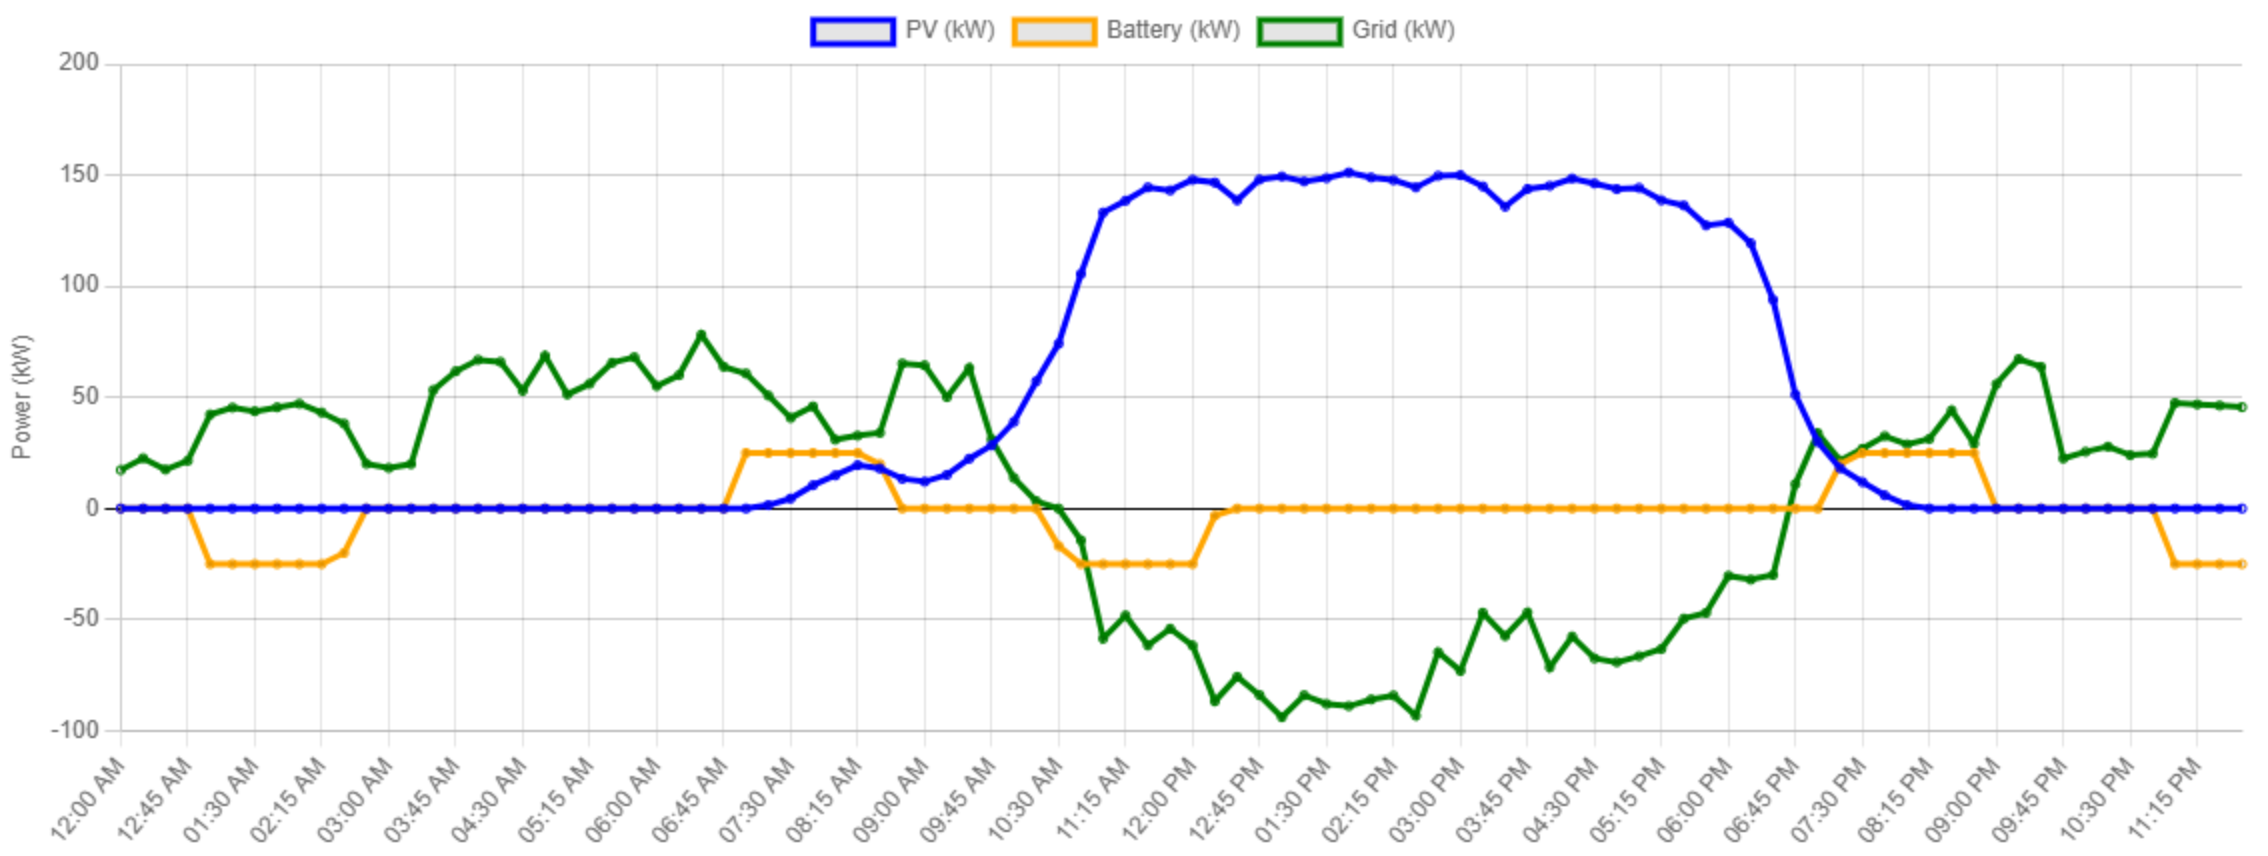
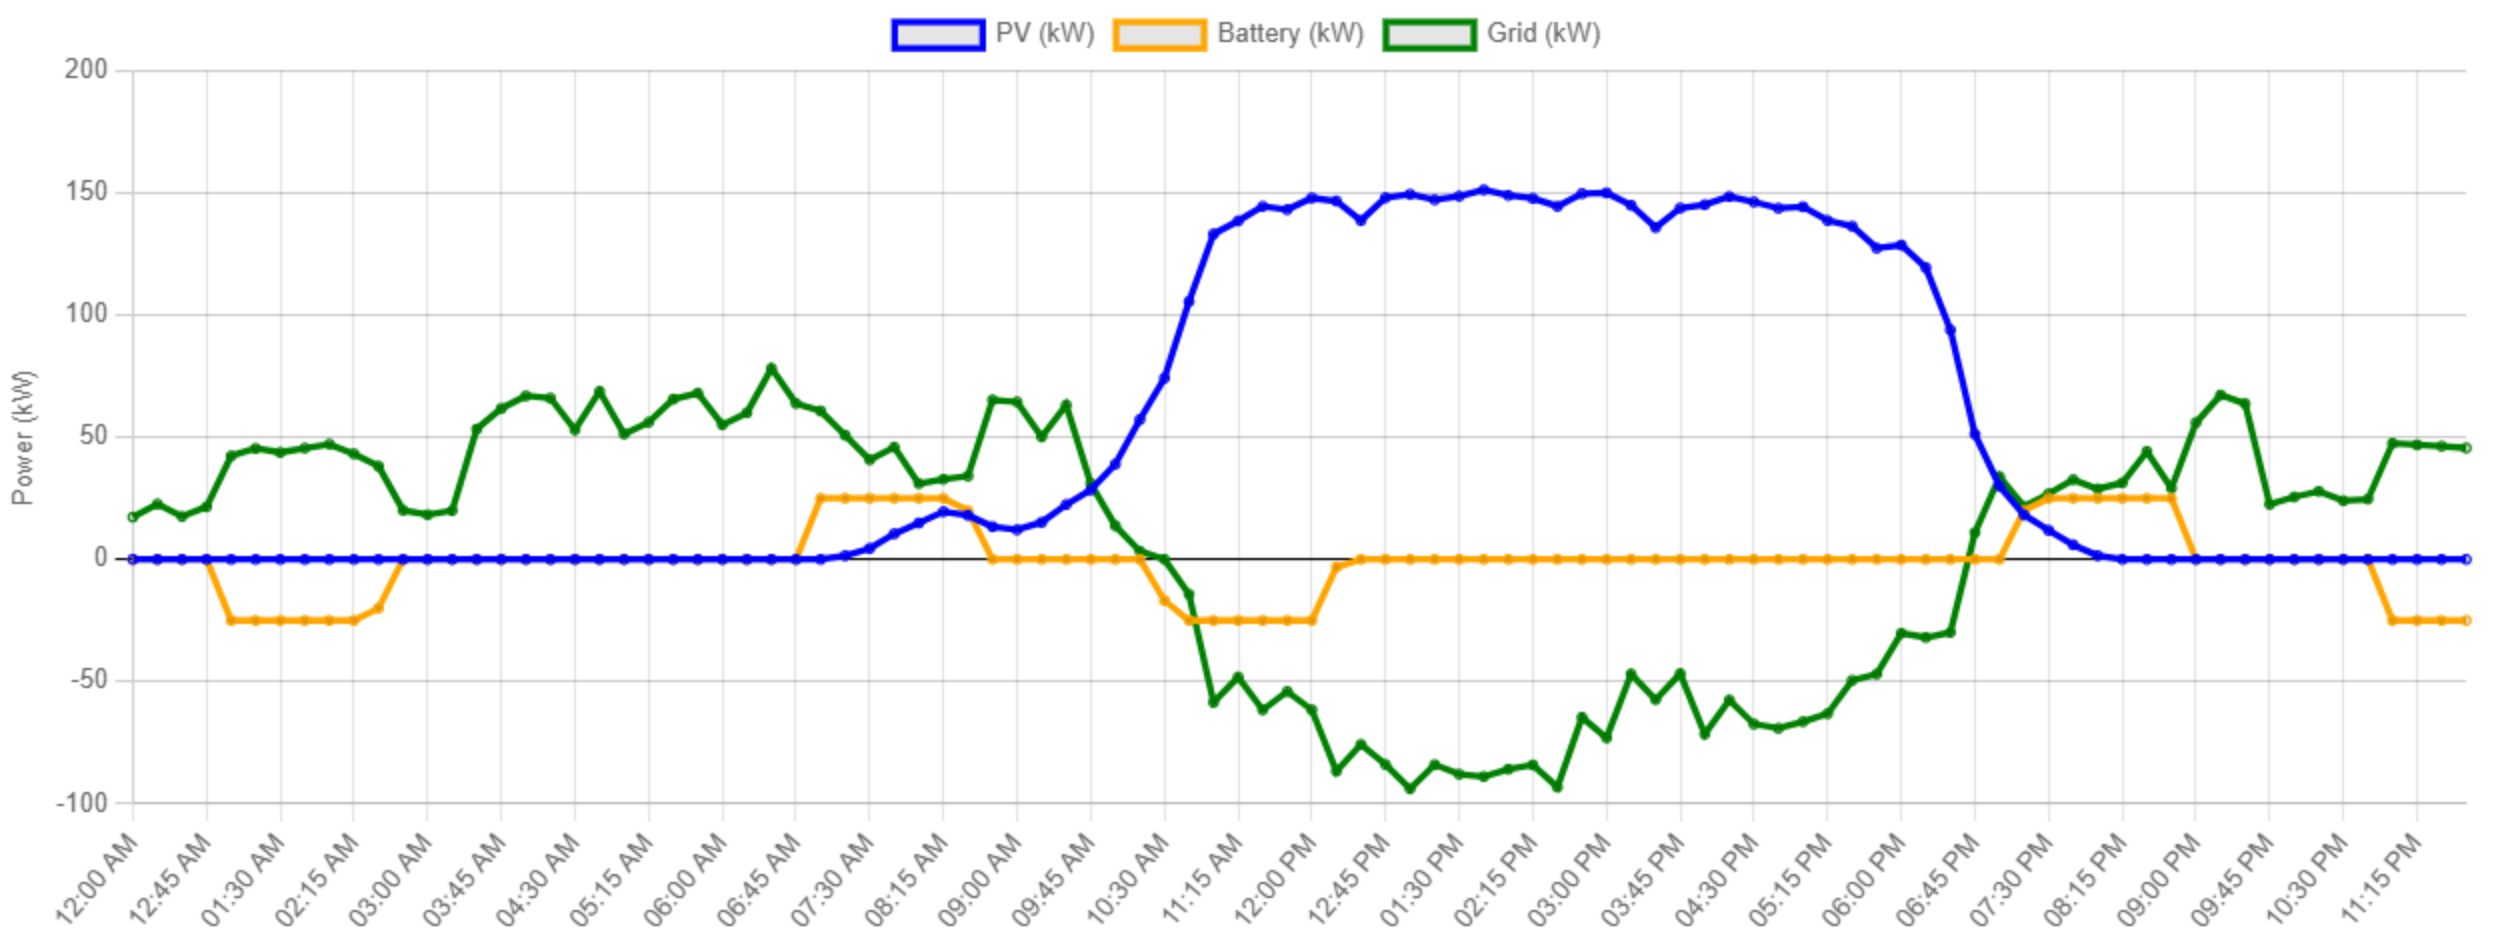
line chart - area colored for first chart

diff --git a/resources/views/plants/partials/plant-chart.blade.php b/resources/views/plants/partials/plant-chart.blade.php
@@ -258,32 +258,35 @@ Chart.register(verticalLinePlugin);
                     {
                         label: 'PV (kW)',
                         data: pvDataKW,
-                        borderColor: 'blue',
-                        fill: false,
-                        pointRadius: 2,        // <-- Make points bigger
-                        pointHoverRadius: 12   // <-- Make points bigger on hover
+                        borderColor: 'rgba(0,123,255,1)',         // blue line
+                        backgroundColor: 'rgba(0,123,255,0.15)',  // light blue fill
+                        fill: true,                               // fill area under line
+                        pointRadius: 2,
+                        pointHoverRadius: 12
                     },
                     {
                         label: 'Battery (kW)',
                         data: batteryDataKW00,
-                        borderColor: 'orange',
-                        fill: false,
+                        borderColor: 'rgba(220,53,69,1)',         // red line
+                        backgroundColor: 'rgba(220,53,69,0.12)',  // light red fill
+                        fill: true,
                         pointRadius: 2,
                         pointHoverRadius: 12
                     },
                     {
                         label: 'Grid (kW)',
                         data: gridDataKW,
-                        borderColor: 'green',
-                        fill: false,
+                        borderColor: 'rgba(40,167,69,1)',         // green line
+                        backgroundColor: 'rgba(40,167,69,0.12)',  // light green fill
+                        fill: true,
                         pointRadius: 2,
                         pointHoverRadius: 12
                     },
                 ]
             },
             options: {
-                responsive: true, // <-- set to true
-                maintainAspectRatio: false, // <-- add this for full height
+                responsive: true,
+                maintainAspectRatio: false,
                 plugins: {
                     legend: { position: 'top' },
                     tooltip: {
@@ -301,8 +304,8 @@ Chart.register(verticalLinePlugin);
                 },
                 elements: {
                     point: {
-                        radius: 4,         // Default point size
-                        hoverRadius: 8    // Point size on hover
+                        radius: 4,
+                        hoverRadius: 8
                     }
                 },
                 scales: {
@@ -311,14 +314,12 @@ Chart.register(verticalLinePlugin);
                             display: true,
                             text: 'Power (kW)'
                         },
-
                         grid: {
                             lineWidth: 1,
                             color: context => context.tick && context.tick.value === 0 ? '#000' : '#ccc'
                         }
                     },
                     x: {
-
                         ticks: {
                             font: { weight: 'normal' }
                         },
